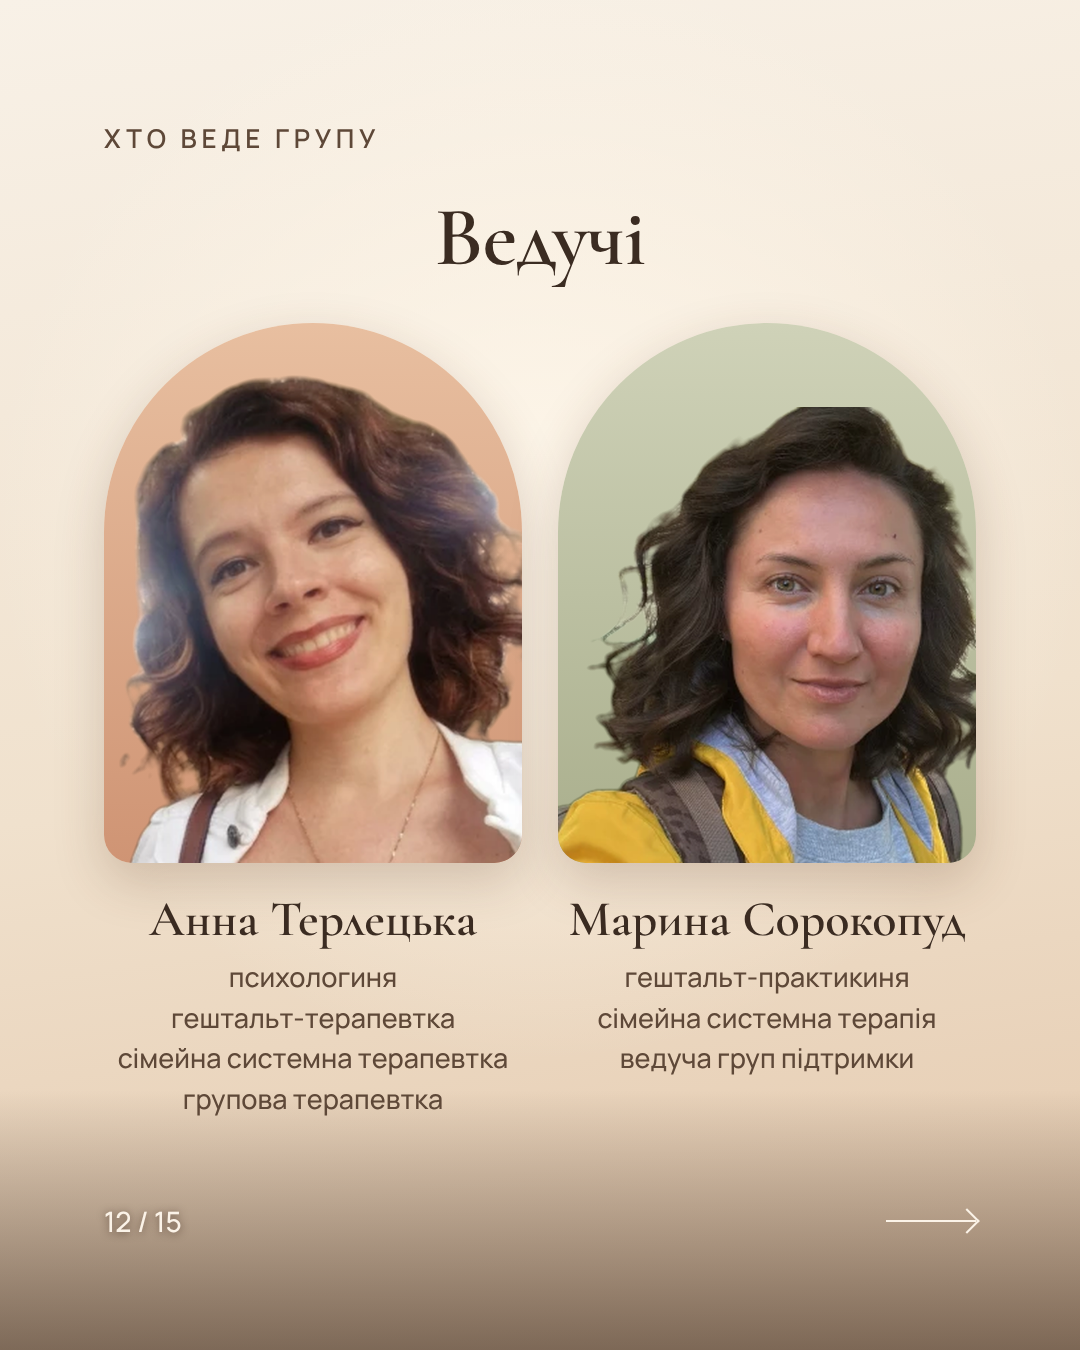
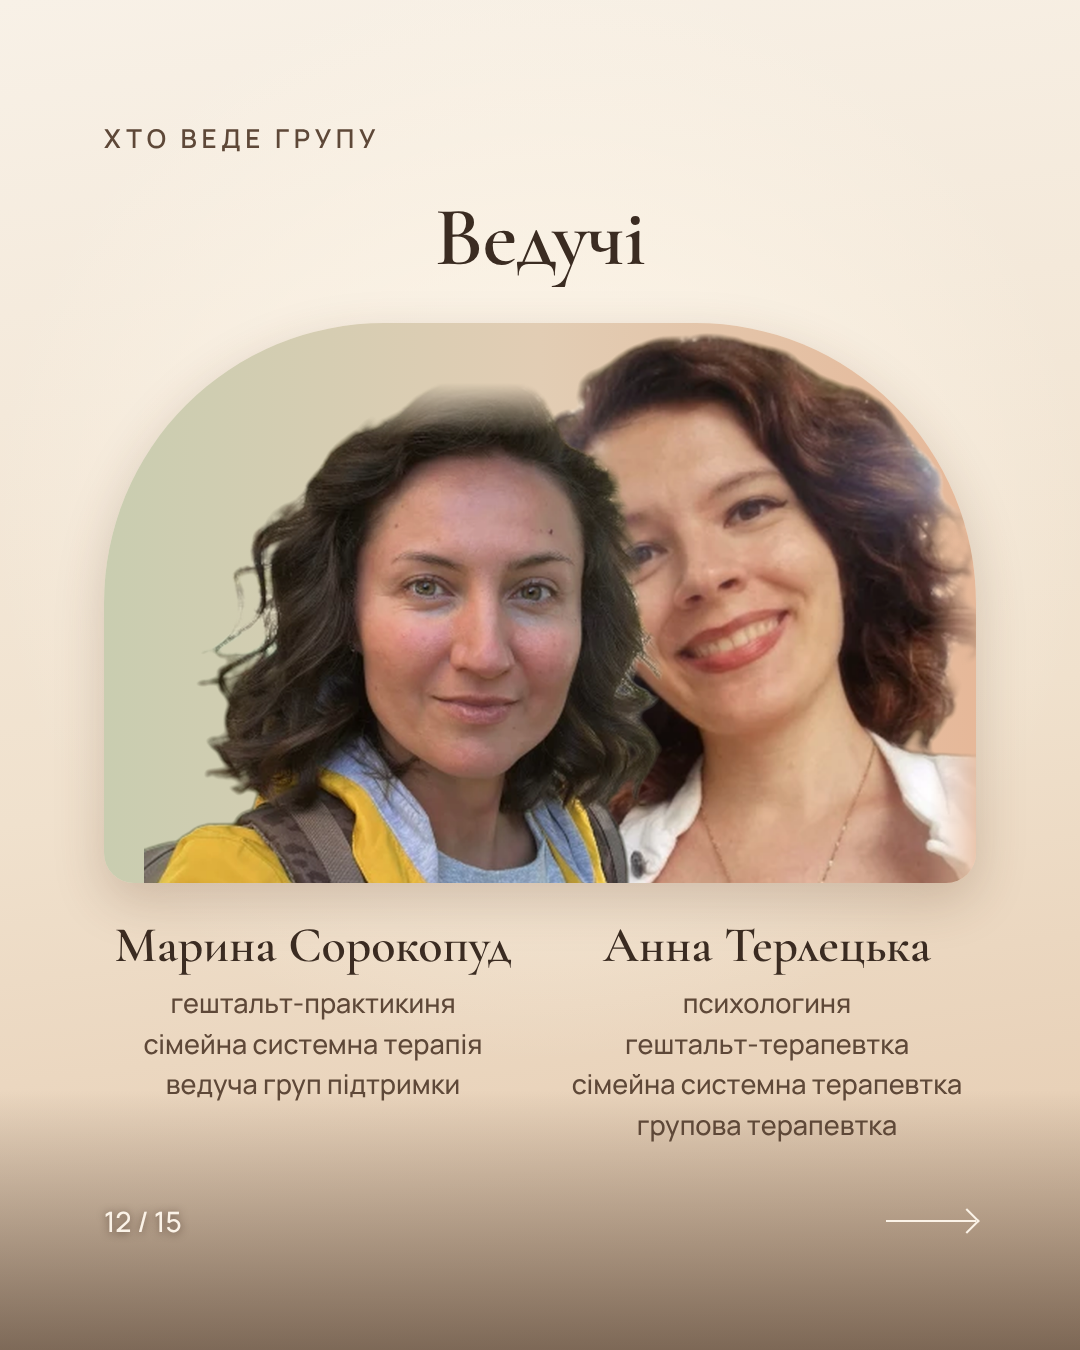
Carousel: hosts together in one arch, Marina left, Anna right
Claude-Session: https://claude.ai/code/session_01Ybrem4L8V91CpdmvQtLtua

diff --git a/reels/carousel/carousel.html b/reels/carousel/carousel.html
@@ -60,7 +60,9 @@ p{font-size:40px;line-height:1.45;color:var(--soft);font-weight:500}
 .host img{width:250px;height:250px;border-radius:50%;object-fit:cover;flex:none;border:6px solid #fbf5ec;box-shadow:0 10px 30px rgba(60,35,20,.22)}
 .host .n{font-family:"Cormorant Garamond",serif;font-weight:600;font-size:56px;line-height:1.05;color:var(--ink);margin-bottom:14px}
 .host .r{font-size:30px;line-height:1.45;color:var(--soft);font-weight:500}
-.duo{display:flex;gap:36px;justify-content:center;margin-top:40px}
+.duo{display:flex;gap:36px;justify-content:center;margin-top:6px}
+.pair{position:relative;width:872px;height:560px;margin-top:40px;border-radius:280px 280px 30px 30px;overflow:hidden;background:linear-gradient(90deg,#c9cdb0 0%,#e2cdb4 50%,#e6b899 100%);box-shadow:0 18px 50px rgba(90,55,30,.22)}
+.pair img{position:absolute}
 .duo .h{width:418px;text-align:center}
 .arch{position:relative;width:418px;height:540px;border-radius:209px 209px 28px 28px;overflow:hidden;box-shadow:0 18px 50px rgba(90,55,30,.22)}
 .arch img{position:absolute}
@@ -245,17 +247,15 @@ p{font-size:40px;line-height:1.45;color:var(--soft);font-weight:500}
   <div class="top"><span>Хто веде групу</span><span></span></div>
   <div class="body" style="justify-content:flex-start;padding-top:36px">
     <h2 class="serif" style="text-align:center">Ведучі</h2>
+    <div class="pair">
+      <img src="photos/anna_cut.png" style="width:500px;left:385px;bottom:-150px;z-index:1;-webkit-mask-image:linear-gradient(90deg,#000 88%,transparent);mask-image:linear-gradient(90deg,#000 88%,transparent)">
+      <img src="photos/marina_cut.png" style="width:520px;left:40px;bottom:-30px;z-index:2;-webkit-mask-image:linear-gradient(180deg,transparent 0,#000 10%);mask-image:linear-gradient(180deg,transparent 0,#000 10%)">
+    </div>
     <div class="duo">
-      <div class="h">
-        <div class="arch" style="background:linear-gradient(180deg,#e8bfa0,#cf9474)"><img src="photos/anna_cut.png" style="width:104%;left:0;bottom:-120px"></div>
-        <div class="n">Анна Терлецька</div>
-        <div class="r">психологиня<br>гештальт-терапевтка<br>сімейна системна терапевтка<br>групова терапевтка</div>
-      </div>
-      <div class="h">
-        <div class="arch" style="background:linear-gradient(180deg,#cfd2b8,#a9ae8c)"><img src="photos/marina_cut.png" style="width:108%;left:-4%;bottom:-4px"></div>
-        <div class="n">Марина Сорокопуд</div>
-        <div class="r">гештальт-практикиня<br>сімейна системна терапія<br>ведуча груп підтримки</div>
-      </div>
+      <div class="h"><div class="n">Марина Сорокопуд</div>
+        <div class="r">гештальт-практикиня<br>сімейна системна терапія<br>ведуча груп підтримки</div></div>
+      <div class="h"><div class="n">Анна Терлецька</div>
+        <div class="r">психологиня<br>гештальт-терапевтка<br>сімейна системна терапевтка<br>групова терапевтка</div></div>
     </div>
   </div>
   <div class="bot"><span>12 / 15</span><span class="arrow"><i></i></span></div>
